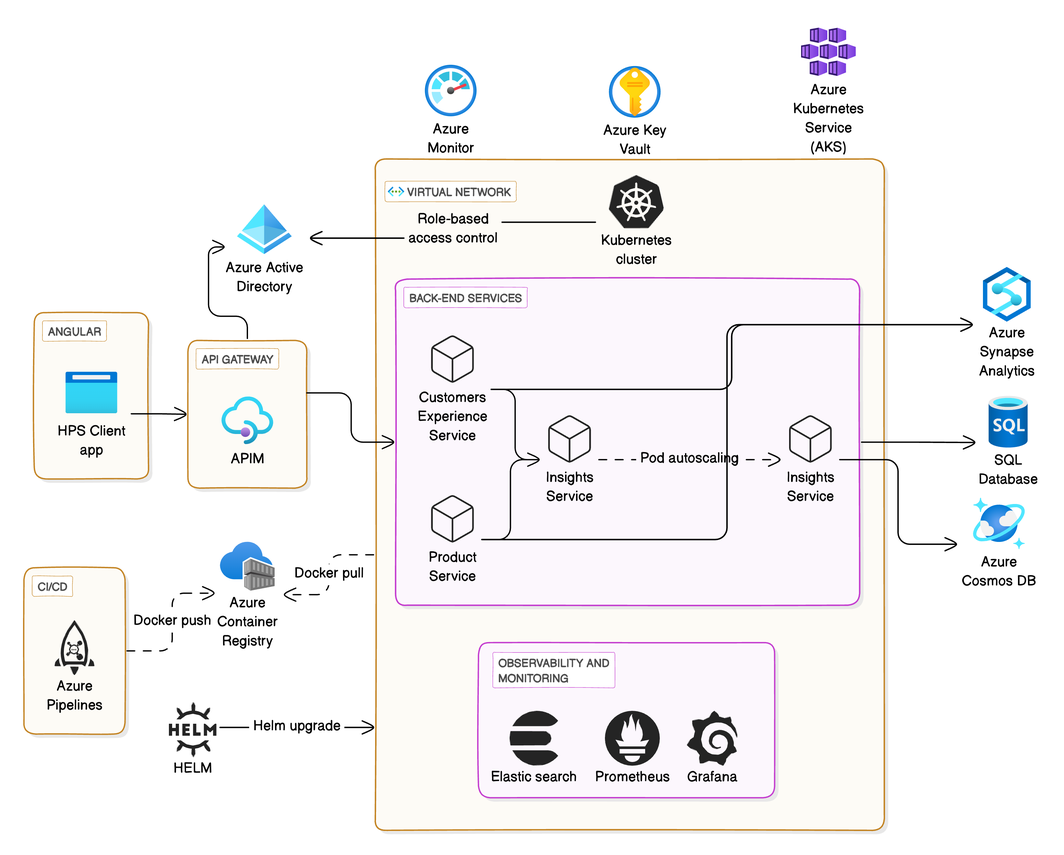
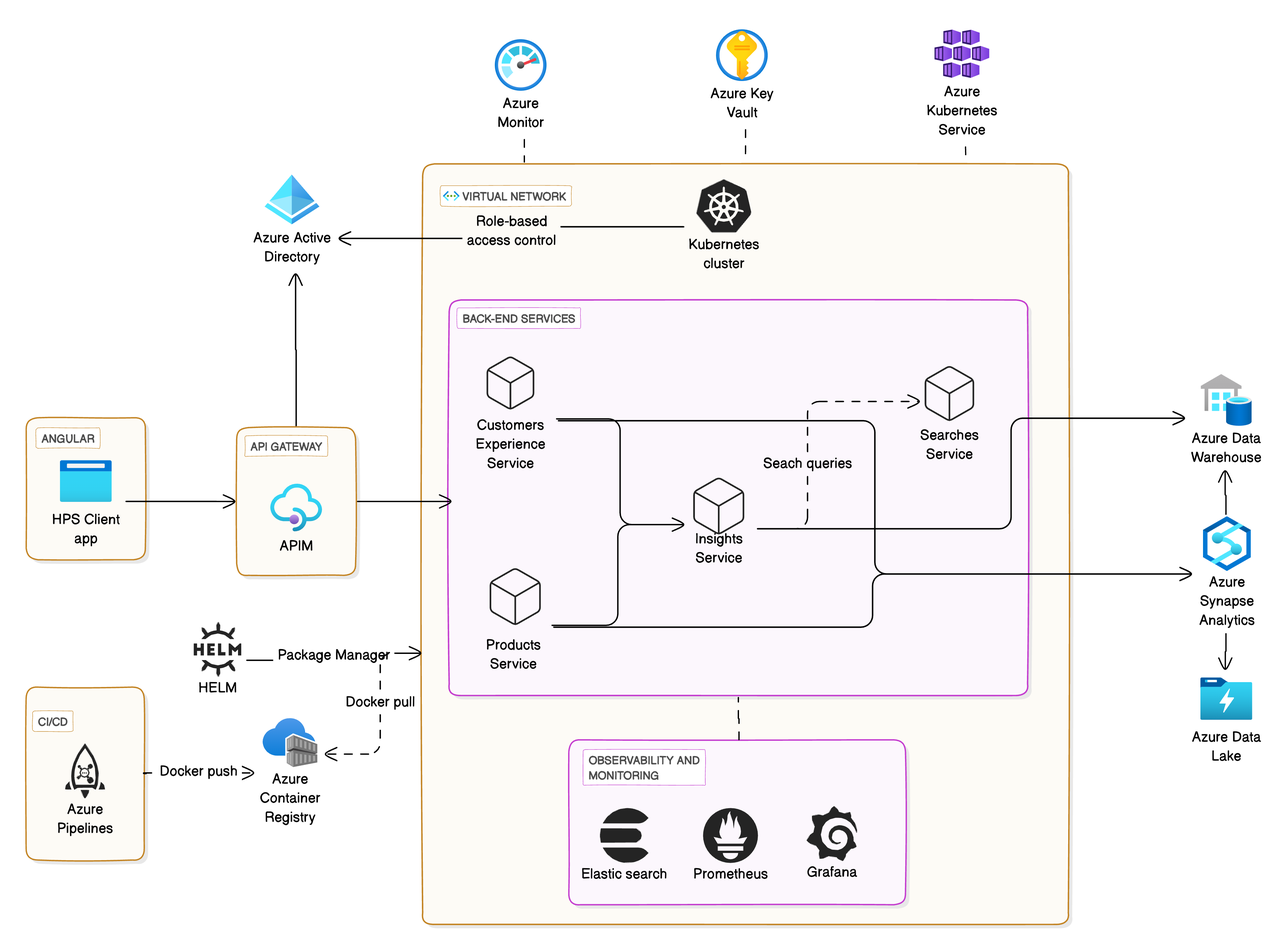
Update README.md

diff --git a/README.md b/README.md
@@ -2,32 +2,30 @@
 
 ## Summary
 
-The "How People Shop" (HPS) product aims to build a digital, web-based solution to collect, store, catalogue, and share insights into customer shopping experiences. This product will enable decision-makers within IKEA to understand consumer behavior, enhancing the IKEA customer experience and driving consumer-centric decision-making.
+The "How People Shop" (HPS) product is a web-based solution designed to collect, analyze, and share insights on customer shopping behaviors. This tool will support IKEA’s decision-making by providing valuable data on consumer interactions, enhancing the customer experience, and driving strategic decisions.
+decision-making.
 
 ## Background
 
-Understanding customer shopping behavior is essential for IKEA to enhance the customer experience and drive consumer-centric decision-making. This product will collect and analyze data on shopping behaviors, interactions, and engagements with home furnishing products and services, enabling IKEA to innovate and expand its omnichannel experience.
+Understanding customer shopping behaviors is crucial for improving IKEA’s customer experience and guiding data-driven decisions. The HPS product will gather and analyze data on shopping interactions with IKEA products and services to support an enhanced omnichannel experience.
 
-<!-- ## Problem
 
-The primary problem addressed by this design doc is the lack of a centralized, digital solution for collecting, storing, and analyzing customer shopping experiences. The constraints include ensuring data privacy, handling large volumes of data, and providing real-time insights. Solving this problem is crucial for driving consumer-centric decision-making and enhancing the IKEA customer experience. -->
 ## Design
 
-The HPS product will be implemented as a web-based solution with multiple microservices for data collection, processing, and insights generation. The architecture includes core microservices, data processing and storage solutions, and observability and security measures.
+The HPS product features a web-based architecture supported by microservices for retrieving analytics and insights generation. The design includes:
 
-- **Architecture**
-- **Component Communication flow**
-- **Data Model**
-- **Technologies Integration**
-- **Considerations**
+- **Architecture Diagram**
+- **Component Communications**
+- **Unified Data Model**
+- **Data Integrations**
 
 ## Definition of Success
 
-The proposal will be deemed successful if the following criteria are met:
+Success will be measured by the following criteria:
 
-- Accurate collection and storage of customer shopping data
+- Accurate data collection and storage of customer shopping data
 - Efficient processing and real-time insights generation
-- Secure and scalable system architecture
+- Secure and scalable architecture
 - Positive feedback from decision-makers within IKEA on the usability and insights provided by the product.
 
 ## Goals
@@ -66,8 +64,9 @@ The proposal will be deemed successful if the following criteria are met:
 ![Frontend Diagram](diagrams/Frontend_Architecture.png)
 
 
-## Components Communication flow
+#### Components:
 ![Components](diagrams/Components.png)
+#### Communication Flow:
 ![Sequence Diagram](diagrams/Sequence_Diagram.png)
 
 ## Unified Data Model
@@ -94,99 +93,112 @@ The HPS Data Model captures the various entities and their relationships involve
 #### Sample Queries:
 | Query Description                          | SQL Query                                                                                               |
 |--------------------------------------------|---------------------------------------------------------------------------------------------------------|
-| Retrieve Product Insights                   | ```SELECT pi.id AS insight_id, pc.name AS product_cluster, t.type AS trigger_type, pi.insight FROM product_insights pi JOIN product_clusters pc ON pi.product_cluster_id = pc.id JOIN triggers t ON pi.trigger_id = t.id;``` |
+| Retrieve Product Insights                   | ```SELECT pi.id AS insight_id,pc.name AS product_cluster,t.type AS trigger_type,pi.insight FROM product_insights pi JOIN product_clusters pc ON pi.product_cluster_id = pc.id JOIN triggers t ON pi.trigger_id = t.id;``` |
 | Retrieve Customer Experiences              | ```SELECT ce.id AS experience_id, c.name AS customer_name, n.type AS need_type, m.type AS mission_type, tp.type AS touchpoint_type, jp.phase AS journey_phase, pp.type AS place_of_purchase FROM customer_experiences ce JOIN customers c ON ce.customer_id = c.id JOIN needs n ON ce.need_id = n.id JOIN missions m ON ce.mission_id = m.id JOIN touchpoints tp ON ce.touchpoint_id = tp.id JOIN journey_phases jp ON ce.journey_phase_id = jp.id JOIN places_of_purchase pp ON ce.place_of_purchase_id = pp.id;``` |
-| Retrieve Customer Experience Insights      | ```SELECT cei.id AS insight_id, ce.id AS experience_id, cei.insight FROM customer_experience_insights cei JOIN customer_experiences ce ON cei.customer_experience_id = ce.id;``` |
+| Retrieve Customer Experience Insights      | ```SELECT cei.id AS insight_id, ce.id AS experience_id, cei.title AS title, cei.description AS description FROM customer_experience_insights cei JOIN customer_experiences ce ON cei.customer_experience_id = ce.id GROUP BY cei.id, ce.id, cei.title, cei.description;``` |
 
-![UI Dashboard](diagrams/UI_Dashboard.png)
-## Technologies and Tools Integration
+<!-- ![UI Dashboard](diagrams/UI_Dashboard.png) -->
+## **Technologies Used**
 
-### Core Microservices
+### **Core Microservices**
 
-| **Aspect**                  | **Technologies**                                                                                 | **Specifications**                                                                                                                                      |
-|-----------------------------|--------------------------------------------------------------------------------------------------|---------------------------------------------------------------------------------------------------------------------------------------------------------|
-| **Customer Experience Service** | Java, Spring Boot, Azure Kubernetes Service (AKS), Azure Container Registry, Azure Active Directory (AAD) | Manages customers profiles, preferences, and shopping behavior data.                                                                                                      |
-| **Products Service**        | Java, Spring Boot, Azure Kubernetes Service (AKS), Azure Container Registry, Azure Active Directory (AAD) | Provide product-related data for analysis and recommendations.                                                                                                               |
-| **Insights Service**        | Java, Spring Boot, Azure Kubernetes Service (AKS), Azure Container Registry, Azure Active Directory (AAD) | Analyzes collected data to provide insights into customer behavior, needs, and trends.                                                                                                        |
+| **Aspect**                    | **Technologies**                                                                                                                                                     | **Specifications**                                                 |
+|-------------------------------|--------------------------------------------------------------------------------------------------------------------------------------------------------------------------|---------------------------------------------------------------------|
+| **Customers Experience Service** | Java, Spring Boot, Azure Kubernetes Service (AKS), Azure Container Registry, Azure Active Directory (AAD)                                                            | Manages customer profiles, preferences, and shopping behavior data. |
+| **Products Service**            | Java, Spring Boot, Azure Kubernetes Service (AKS), Azure Container Registry, Azure Active Directory (AAD)                                                            | Provides product-related data for analysis and recommendations.    |
+| **Insights Service**            | Java, Spring Boot, Azure Kubernetes Service (AKS), Azure Container Registry, Azure Active Directory (AAD)                                                            | Analyzes data to provide insights into customer behavior, needs, and trends. |
+| **Searches Service**            | Java, Spring Boot, Azure Kubernetes Service (AKS), Azure Container Registry, Azure Active Directory (AAD)                                                            | Handles search operations and indexing to enable aggregated insights and trend searches. |
 
-### Data Processing and Storage
+### **Data Processing and Storage**
 
-| **Aspect**                  | **Technologies**                                                                                 | **Specifications**                                                                                                                                      |
-|-----------------------------|--------------------------------------------------------------------------------------------------|---------------------------------------------------------------------------------------------------------------------------------------------------------|
-| **Data Ingestion**          | Azure Data Factory                                                                              | Pull data from various sources.                                                                                                                          |
-| **Data Transformation**     | Azure Databricks                                                                                | Transform and process data within microservices.                                                                                                         |
-| **Data Storage**            | Azure Synapse Analytics, Azure Data Lake Storage, Elastic Search, SQL Database (Azure SQL Database) | Store structured and unstructured data, and index for efficient retrieval.                                                                                |
+| **Aspect**            | **Technologies**                                                | **Specifications**                                                     |
+|-----------------------|-------------------------------------------------------------------|-------------------------------------------------------------------------|
+| **Data Ingestion**    | Azure Data Factory, Azure Stream Analytics                      | Ingests data from various sources including databases, APIs, and files; handles real-time data streaming. |
+| **Data Transformation** | Azure Databricks                                               | Transforms and processes data, including large-scale data cleaning and enrichment. |
+| **Data Storage**      | Azure Synapse Analytics, Azure Data Lake, Azure Data Warehouse, Elasticsearch Service | Stores structured and unstructured data; indexes for efficient retrieval and analysis. |
 
-### Observability and Data Quality
+### **Observability and Data Quality**
 
-| **Aspect**                  | **Technologies**                                                                                 | **Specifications**                                                                                                                                      |
-|-----------------------------|--------------------------------------------------------------------------------------------------|---------------------------------------------------------------------------------------------------------------------------------------------------------|
-| **Monitoring**              | Prometheus, Grafana                                                                             | Real-time monitoring and visualization.                                                                                                                  |
-| **Observability**           | Azure Monitor                                                                                   | Comprehensive monitoring and diagnostics.                                                                                                                |
-| **Data Quality**            | Azure Data Catalog                                                                              | Maintain data quality and governance.                                                                                                                    |
+| **Aspect**          | **Technologies**                  | **Specifications**                                         |
+|---------------------|-----------------------------------|------------------------------------------------------------|
+| **Monitoring**      | Prometheus, Grafana                | Real-time monitoring, alerting, and visualization for microservices and data pipelines. |
+| **Observability**   | Azure Monitor, Azure Application Insights | Comprehensive monitoring, diagnostics, and application performance management. |
+| **Data Quality**    | Azure Data Catalog, Azure Purview | Maintains data quality and governance; ensures data integrity and compliance. |
+| **Data Lineage**    | Azure Data Catalog, Azure Purview | Tracks the flow and transformations of data across the pipeline to understand data lineage and dependencies. |
+| **Logging**         | Azure Monitor Logs, ELK Stack      | Captures logs from data processing and ingestion to aid in troubleshooting and performance optimization. |
 
-### Security and Authentication
+### **Security and Authentication**
 
-| **Aspect**                  | **Technologies**                                                                                 | **Specifications**                                                                                                                                      |
-|-----------------------------|--------------------------------------------------------------------------------------------------|---------------------------------------------------------------------------------------------------------------------------------------------------------|
-| **Authentication**          | Azure Active Directory (AAD)                                                                    | Authenticate users and applications.                                                                                                                     |
-| **Authorization**           | Azure Active Directory (AAD)                                                                    | Implement role-based access control (RBAC).                                                                                                              |
-| **Secret Management**       | Azure Key Vault                                                                                 | Store and manage secrets securely.                                                                                                                       |
+| **Aspect**           | **Technologies**                 | **Specifications**                                     |
+|----------------------|----------------------------------|--------------------------------------------------------|
+| **Authentication**   | Azure Active Directory (AAD)     | Authenticates users and applications, ensuring secure access. |
+| **Authorization**    | Azure Active Directory (AAD)     | Implements role-based access control (RBAC) to manage permissions. |
+| **Secret Management**| Azure Key Vault                   | Stores and manages secrets securely to protect sensitive information. |
+| **Data Encryption**  | Azure Key Vault, Azure Storage Encryption | Encrypts data at rest and in transit to safeguard against unauthorized access. |
+| **Data Masking**     | Azure Data Factory, Azure SQL Database | Applies data masking to obscure sensitive information from unauthorized users. |
+| **Access Control**   | Azure Active Directory (AAD), Azure Managed Identities | Controls access to data based on user roles and service identities. |
 
-## Data Flow and Integration
+### **Data Flow and Integration**
 
-| **Step**                   | **Description**                                                                                   |
-|----------------------------|---------------------------------------------------------------------------------------------------|
-| **Data Ingestion**         | Use Azure Data Factory to pull data from various sources (databases, APIs, files). Stream real-time data through Apache Kafka to appropriate microservices. |
-| **Data Transformation**    | Use Azure Databricks for transforming and processing data within microservices
+**Lifecycle of Data Management**
+
+| **Step**              | **Description**                                                                                             |
+|-----------------------|-------------------------------------------------------------------------------------------------------------|
+| **Data Ingestion**    | Use Azure Data Factory for batch data ingestion from various sources and Azure Stream Analytics for real-time data streaming. |
+| **Data Transformation** | Utilize Azure Databricks for data transformation and processing.                                           |
+| **Data Storage**      | Store data in Azure Synapse Analytics for structured data and Azure Data Lake for unstructured data.          |
+| **Data Processing**   | Azure Synapse Analytics and Azure Databricks for data extraction, transformation, and loading.                |
+
+### **Handling Structured and Unstructured Data**
+
+| **Aspect**                  | **Technologies**                     | **Specifications**                                  |
+|-----------------------------|--------------------------------------|-----------------------------------------------------|
+| **Data Storage**            | Azure Data Lake, Azure Synapse Analytics, Azure SQL Database | Stores structured and unstructured data.           |
+| **Data Processing**         | Azure Databricks                     | Processes and analyzes large volumes of data.      |
+| **Indexing and Search**     | Elasticsearch Service                | Indexes and searches unstructured data for efficient retrieval. |
+
+### **Scalability**
+
+**Scalability of Data Processing and Ingestion**
+
+| **Aspect**                  | **Technologies**                           | **Specifications**                                      |
+|-----------------------------|--------------------------------------------|---------------------------------------------------------|
+| **Data Ingestion Scalability** | Azure Data Factory, Azure Stream Analytics | Scales ingestion processes to handle large volumes of data, both batch and real-time. |
+| **Data Processing Scalability** | Azure Databricks                        | Provides distributed data processing and analysis to handle large-scale data efficiently. |
+| **Data Storage Scalability**   | Azure Synapse Analytics, Azure Data Lake | Scales data storage to accommodate growing data volumes and supports efficient querying and analysis. |
+
+**General Scalability**
+
+| **Aspect**             | **Technologies**                           | **Specifications**                                      |
+|------------------------|--------------------------------------------|---------------------------------------------------------|
+| **Horizontal Scaling** | Azure Kubernetes Service (AKS)             | Scales microservices horizontally based on demand.      |
+| **Load Balancing**     | Azure Load Balancer                        | Distributes traffic across multiple instances.          |
+| **Distributed Processing** | Azure Databricks                        | Enables distributed data processing and analysis.       |
+
+### **Trigger Mechanisms**
+
+| **Aspect**                   | **Technologies**                     | **Specifications**                                   |
+|------------------------------|--------------------------------------|------------------------------------------------------|
+| **Event-Driven Architecture** | Azure Functions, Azure Event Grid   | Implements serverless functions and event-driven processing to trigger data extraction and ingestion based on specific events or conditions. |
+| **Webhook Integration**       | Webhooks                             | Triggers data ingestion processes and other actions based on external events or changes. |
+| **Scheduled Triggers**        | Azure Logic Apps, Azure Automation   | Supports scheduled and recurring data extraction and ingestion tasks to automate workflows. |
+| **Streaming Data Triggers**   | Azure Stream Analytics               | Handles real-time data streaming and triggers processing workflows based on streaming data events. |
 
 
-## Data Processing
+## **Challenges/Concerns and Resolutions**
 
-### ETL Process
-
-| **Aspect**            | **Technologies**                                                                                       | **Specifications**                                                                                                                                      |
-|-----------------------|--------------------------------------------------------------------------------------------------------|---------------------------------------------------------------------------------------------------------------------------------------------------------|
-| **Data Extraction**   | Azure Data Factory                                                                                    | Connect to various data sources, including databases, APIs, and file systems.                                                                            |
-| **Data Transformation** | Azure Databricks                                                                                     | Leverage for scalable data cleaning, normalization, and transformation.                                                                                   |
-| **Data Loading**      | Azure Synapse Analytics                                                                               | Store transformed data for efficient querying and analysis.                                                                                              |
-
-### Handling Structured and Unstructured Data
-
-| **Aspect**            | **Technologies**                                                                                       | **Specifications**                                                                                                                                      |
-|-----------------------|--------------------------------------------------------------------------------------------------------|---------------------------------------------------------------------------------------------------------------------------------------------------------|
-| **Data Classification** | Azure Data Lake Storage                                                                              | Store both structured and unstructured data.                                                                                                             |
-| **Processing Frameworks** | Azure Databricks                                                                                   | Process and analyze large volumes of unstructured data.                                                                                                  |
-| **Indexing and Search** | Elastic Search                                                                                       | Efficient retrieval and indexing of unstructured data.                                                                                                   |
-
-### Scalability
-
-| **Aspect**            | **Technologies**                                                                                       | **Specifications**                                                                                                                                      |
-|-----------------------|--------------------------------------------------------------------------------------------------------|---------------------------------------------------------------------------------------------------------------------------------------------------------|
-| **Horizontal Scaling** | Azure Kubernetes Service (AKS)                                                                        | Scale microservices horizontally based on load.                                                                                                          |
-| **Load Balancing**    | Azure Load Balancer                                                                                    | Distribute traffic across instances.                                                                                                                     |
-| **Distributed Processing** | Azure Databricks                                                                                  | Use for distributed data processing and analysis.                                                                                                        |
-
-### Trigger Mechanisms
-
-| **Aspect**            | **Technologies**                                                                                       | **Specifications**                                                                                                                                      |
-|-----------------------|--------------------------------------------------------------------------------------------------------|---------------------------------------------------------------------------------------------------------------------------------------------------------|
-| **Event-Driven Architecture** | Azure Functions, Azure Event Grid                                                             | Handle various triggers using serverless functions and event grid.                                                                                       |
-| **API Gateway**       | Azure API Management                                                                                   | Manage and secure APIs.                                                                                                                                  |
-| **Webhook Integration** | Webhooks                                                                                             | Listen for specific events and invoke data ingestion processes.                                                                                          |
-
-## Challenges/Concerns and Resolutions
-
-| Concern                                                  | Resolution                                                                                                   |
-|----------------------------------------------------------|--------------------------------------------------------------------------------------------------------------|
-| **API Gateway Performance and Reliability**               | Implement load balancing, auto-scaling, and comprehensive monitoring. Perform regular stress testing.         |
-| **Security and Access Control**                          | Use Azure Active Directory for role-based access control. Regularly audit permissions and use Azure Key Vault for sensitive information. |
-| **Scalability of Back-End Services**                     | Implement horizontal scaling using Kubernetes auto-scaling features. Monitor resource allocation using Prometheus and Grafana. |
-| **Observability and Monitoring**                         | Integrate Elastic Search, Prometheus, and Grafana for logging, monitoring, and visualization. Set up alerts for anomalies. |
-| **Data Consistency and Integrity**                       | Use data synchronization mechanisms and Azure Synapse Analytics. Perform regular data integrity checks and backups. |
-| **Deployment and CI/CD**                                 | Use Azure Pipelines for automated CI/CD processes. Implement Helm for managing Kubernetes deployments and ensure rollback mechanisms. |
-| **Autoscaling Complexity**                               | Configure Kubernetes autoscaling policies carefully. Monitor the interactions between different services.       |
-| **Inter-Service Communication**                          | Implement robust inter-service communication mechanisms. Consider using a service mesh like Istio for traffic management and monitoring. |
+| **Concern**                                             | **Resolution**                                                                                             |
+|---------------------------------------------------------|------------------------------------------------------------------------------------------------------------|
+| **API Gateway Performance and Reliability**            | Implement load balancing, auto-scaling, and comprehensive monitoring. Perform regular stress testing to ensure performance under high traffic. |
+| **Security and Access Control**                         | Utilize Azure Active Directory (AAD) for robust role-based access control (RBAC). Regularly audit permissions and use Azure Key Vault for managing sensitive information and secrets. Implement encryption and data masking for additional security. |
+| **Scalability of Back-End Services**                    | Employ horizontal scaling using Azure Kubernetes Service (AKS) and configure auto-scaling features. Monitor resource allocation with Prometheus and Grafana. Ensure data storage solutions like Azure Synapse Analytics and Azure Data Lake can scale to handle large volumes of data. |
+| **Observability and Monitoring**                        | Integrate Elastic Search for indexing, Azure Monitor, Prometheus, and Grafana for logging, monitoring, and visualization. Set up alerts for anomalies and use Azure Data Catalog for tracking data lineage and quality. |
+| **Data Consistency and Integrity**                      | Implement data synchronization mechanisms and use Azure Synapse Analytics for consistency checks. Conduct regular data integrity checks, backups, and ensure data quality using Azure Data Catalog. |
+| **Deployment and CI/CD**                                | Utilize Azure Pipelines for automated CI/CD processes and Helm for managing Kubernetes deployments. Implement rollback mechanisms and ensure CI/CD pipelines are optimized for handling complex deployments. |
+| **Autoscaling Complexity**                              | Configure Kubernetes autoscaling policies carefully and monitor interactions between services to avoid issues. Utilize Azure Monitor and Prometheus for insights into scaling performance and efficiency. |
+| **Inter-Service Communication**                         | Develop robust inter-service communication mechanisms. Consider using a service mesh like Istio for advanced traffic management, monitoring, and observability. |
+| **Handling Various Trigger Mechanisms**                 | Implement event-driven architecture using Azure Functions and Azure Event Grid. Leverage Azure Logic Apps and Azure Automation for scheduled and recurring tasks. Ensure real-time data streaming with Azure Stream Analytics. |
+| **Data Ingestion and Processing Performance**            | Optimize data ingestion pipelines with Azure Data Factory and Azure Stream Analytics. Ensure efficient data processing and transformation with Azure Databricks. Regularly monitor performance and adjust configurations as needed. |
 
 ## Coffee Consumption Calculation
 
